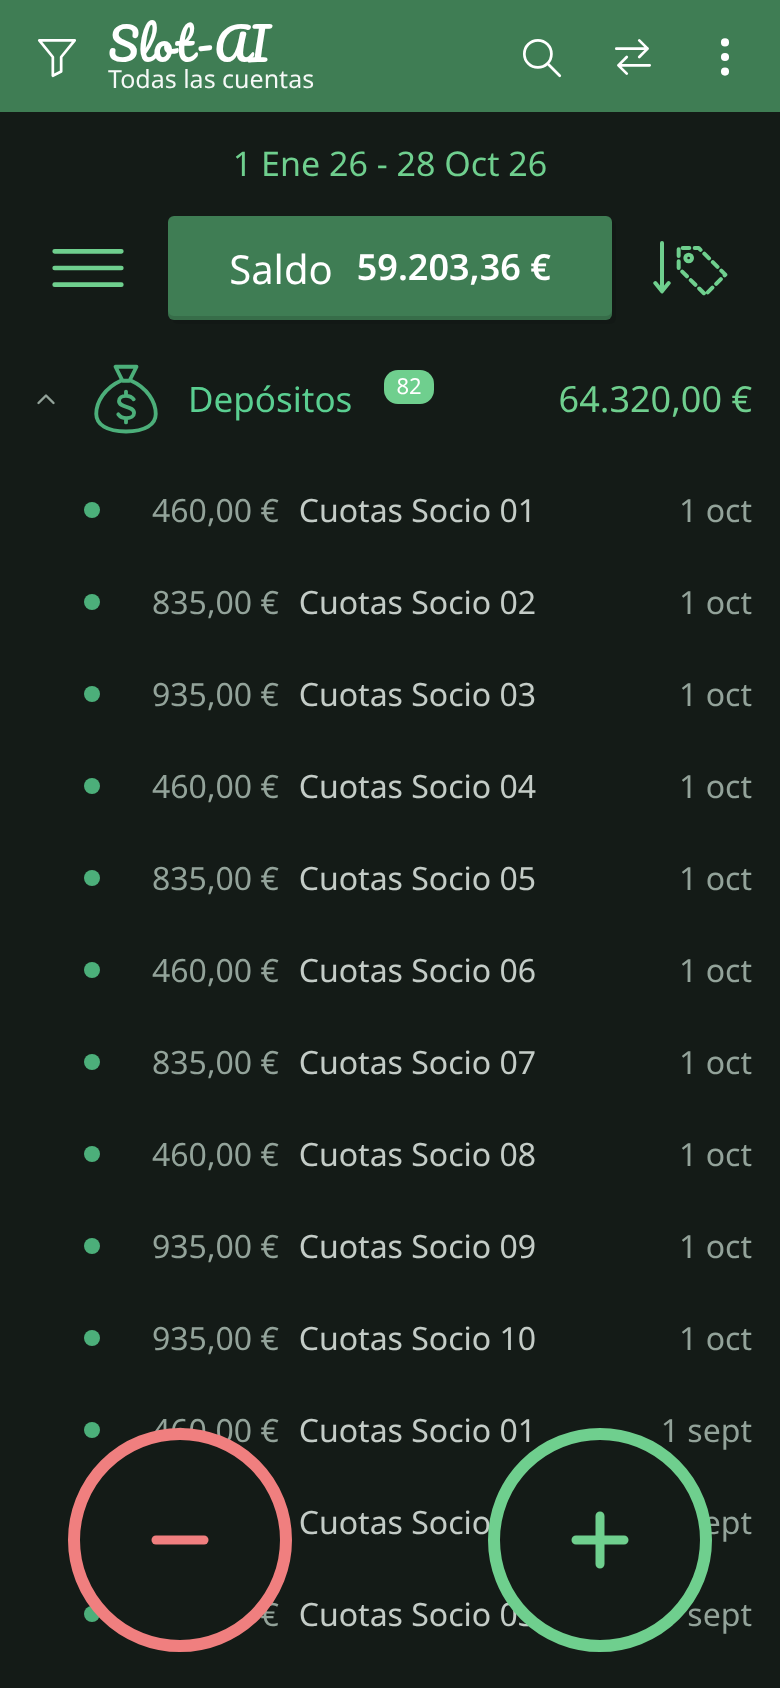
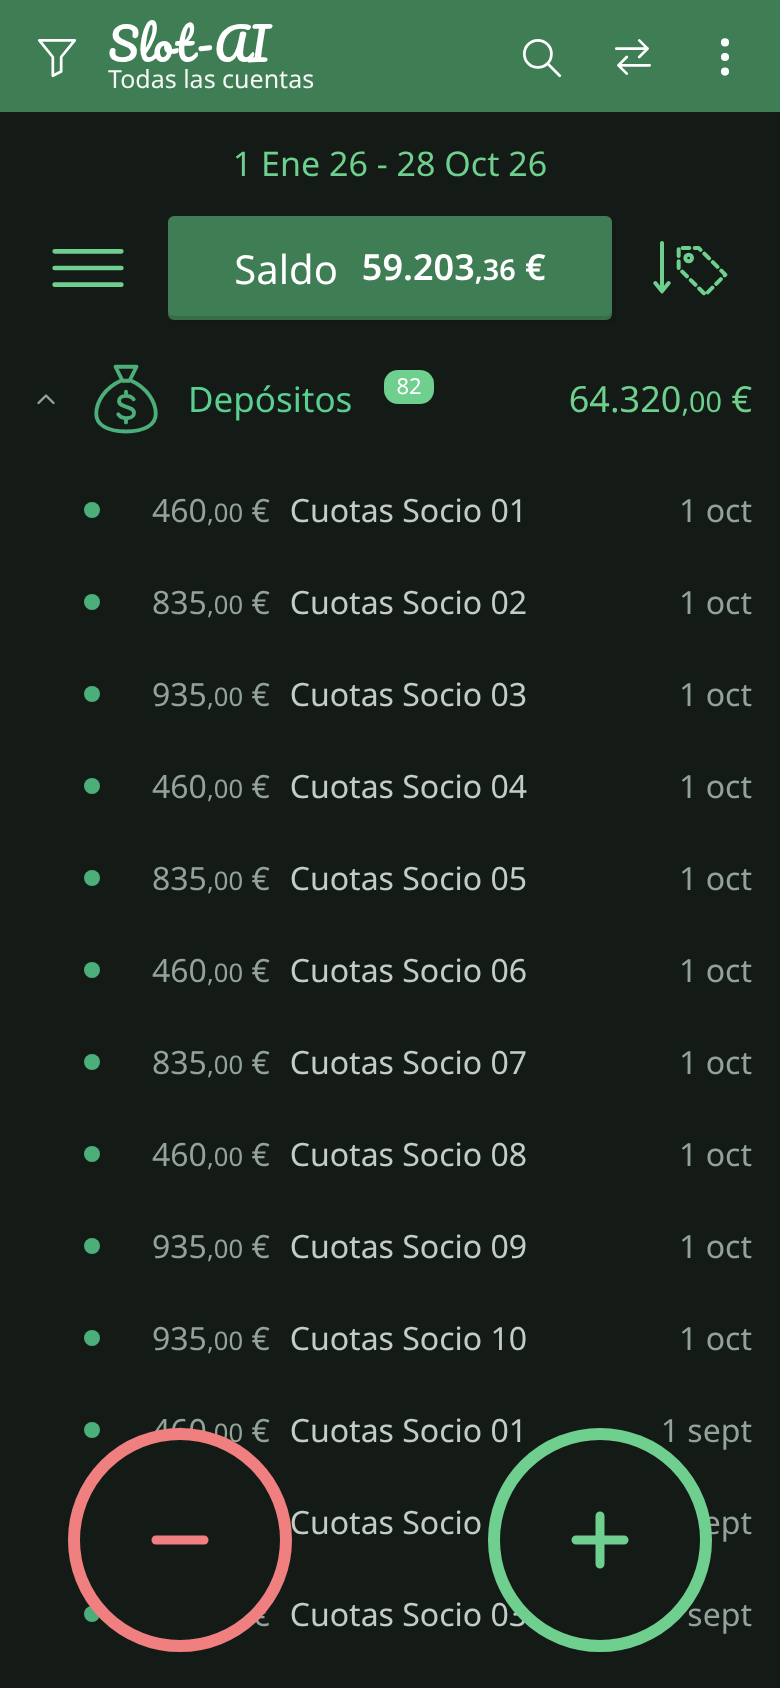
v1.3.5: céntimos a 0,8em en la misma línea base y fuente (lining nums)

diff --git a/tests/e2e.js b/tests/e2e.js
@@ -167,6 +167,8 @@ process.on('exit',()=>console.log(results.join('\n')));
   await shoot(false);await shoot(true);
  }
  await p.goto(URL);await p.waitForSelector('.ci');for(const w of [360,412]){await p.setViewportSize({width:w,height:760});await p.waitForTimeout(100);const m=await p.$eval('#chart .center',c=>{const s=getComputedStyle(c);return{fs:parseFloat(s.fontSize),tn:s.fontVariantNumeric,fit:[...c.querySelectorAll('.num')].every(d=>d.getBoundingClientRect().width<=c.clientWidth),tf:s.transform}});ok('totales donut legibles a '+w+'px ('+m.fs+'px, tnum, sin escalar)',m.fs>=17.5&&m.fs<=20.5&&m.tn.includes('tabular')&&m.tn.includes('lining')&&m.fit&&/^matrix\(1, 0, 0, 1,/.test(m.tf));}
+ {await p.setViewportSize({width:412,height:760});const r=await p.$$eval('#totInc,#totExp,#balance',els=>els.map(e=>{const n=e.querySelector('.num'),c=e.querySelector('small.c');if(!n||!c)return null;const sn=getComputedStyle(n),sc=getComputedStyle(c);const t=document.createElement('span');t.textContent='0';n.insertBefore(t,c);const bi=t.getBoundingClientRect().bottom,bc=c.getBoundingClientRect().bottom;t.remove();return{ratio:parseFloat(sc.fontSize)/parseFloat(sn.fontSize),same:sc.fontFamily===sn.fontFamily,lining:sc.fontVariantNumeric.includes('lining'),va:sc.verticalAlign,db:Math.abs(bi-bc)};}));
+  ok('céntimos 0,8em, misma fuente y línea base '+JSON.stringify(r),r.every(x=>x&&Math.abs(x.ratio-.8)<.02&&x.same&&x.lining&&x.va==='baseline'&&x.db<2.5));}
  ok('sin errores de consola '+JSON.stringify(errs),errs.length===0);
  console.log(results.join('\n'));console.log(results.filter(r=>r.startsWith('PASS')).length+'/'+results.length+' OK');await b.close();
 })().catch(e=>{console.error(e);process.exit(1)});

diff --git a/js/app.js b/js/app.js
@@ -1,5 +1,5 @@
 'use strict';
-const APP_VERSION='1.3.4';
+const APP_VERSION='1.3.5';
 const $=s=>document.querySelector(s);
 const esc=s=>String(s??'').replace(/[&<>"']/g,c=>({'&':'&amp;','<':'&lt;','>':'&gt;','"':'&quot;',"'":'&#39;'}[c]));
 const D=()=>Store.data;
@@ -12,7 +12,7 @@ const U=(k,cls,sw)=>svgIcon(UI[k],cls,sw);
 // ---------- formato ----------
 function fmtNum(cents){const neg=cents<0;cents=Math.abs(Math.round(cents));const e=Math.floor(cents/100).toString().replace(/\B(?=(\d{3})+(?!\d))/g,'.');return (neg?'-':'')+e+','+String(cents%100).padStart(2,'0');}
 const money=c=>fmtNum(c)+'\u00a0'+D().settings.currency;
-function moneyH(c){return `<span class="num">${fmtNum(c)}\u00a0${esc(D().settings.currency)}</span>`;}
+function moneyH(c){const s=fmtNum(c),i=s.lastIndexOf(',');return `<span class="num">${s.slice(0,i)}<small class="c">${s.slice(i)}</small>\u00a0${esc(D().settings.currency)}</span>`;}
 const iso=d=>d.getFullYear()+'-'+String(d.getMonth()+1).padStart(2,'0')+'-'+String(d.getDate()).padStart(2,'0');
 const parseIso=s=>{const[y,m,d]=s.split('-').map(Number);return new Date(y,m-1,d);};
 const fmtDate=s=>{const[y,m,d]=s.split('-');return d+'/'+m+'/'+y;};

diff --git a/css/app.css b/css/app.css
@@ -7,7 +7,7 @@ button{font:inherit;color:inherit;border:0;background:none;cursor:pointer;paddin
 input,select{font:inherit;color:var(--fg);background:var(--card);border:1px solid var(--line);border-radius:6px;padding:8px}
 svg{display:block}
 #app{max-width:520px;margin:0 auto;min-height:100%;display:flex;flex-direction:column;position:relative}
-small.c{font-size:inherit;font-family:inherit;vertical-align:baseline}
+small.c{font-size:.8em;font-family:inherit;font-weight:inherit;vertical-align:baseline;line-height:1;font-variant-numeric:lining-nums tabular-nums}
 .num,.center,.saldo,.anum,.tx,.grow,.arow{font-variant-numeric:lining-nums tabular-nums;font-feature-settings:"lnum" 1,"tnum" 1}
 .top{background:var(--hdr);color:#fff;padding:calc(env(safe-area-inset-top) + 6px) 6px 6px;display:flex;align-items:center;gap:2px;min-height:56px;position:sticky;top:0;z-index:10}
 .top .ib{width:44px;height:44px;display:flex;align-items:center;justify-content:center;color:#fff}

diff --git a/sw.js b/sw.js
@@ -1,5 +1,5 @@
 // Cambia VERSION en cada despliegue para que los usuarios reciban la actualización.
-const VERSION='slot-ai-v1.3.4';
+const VERSION='slot-ai-v1.3.5';
 const ASSETS=['./','index.html','css/app.css','js/icons.js','js/store.js','js/app.js','fonts/pacifico.woff2','manifest.webmanifest','icons/icon-192.png','icons/icon-512.png','icons/icon-512-maskable.png'];
 self.addEventListener('install',e=>e.waitUntil(caches.open(VERSION).then(c=>c.addAll(ASSETS))));
 self.addEventListener('activate',e=>e.waitUntil(caches.keys().then(ks=>Promise.all(ks.filter(k=>k!==VERSION).map(k=>caches.delete(k)))).then(()=>self.clients.claim())));
